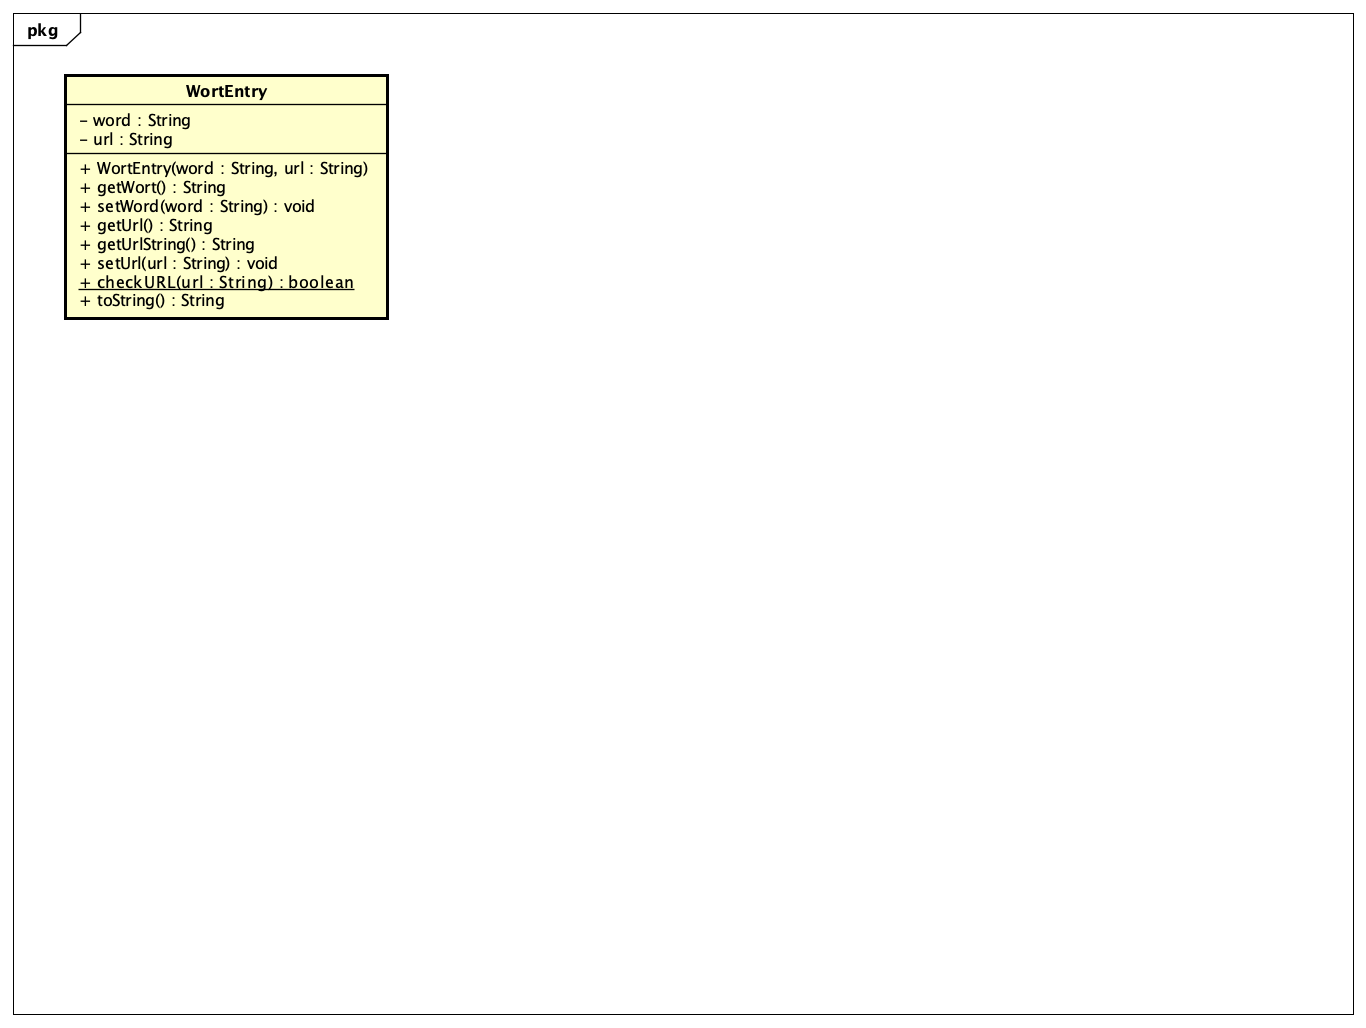
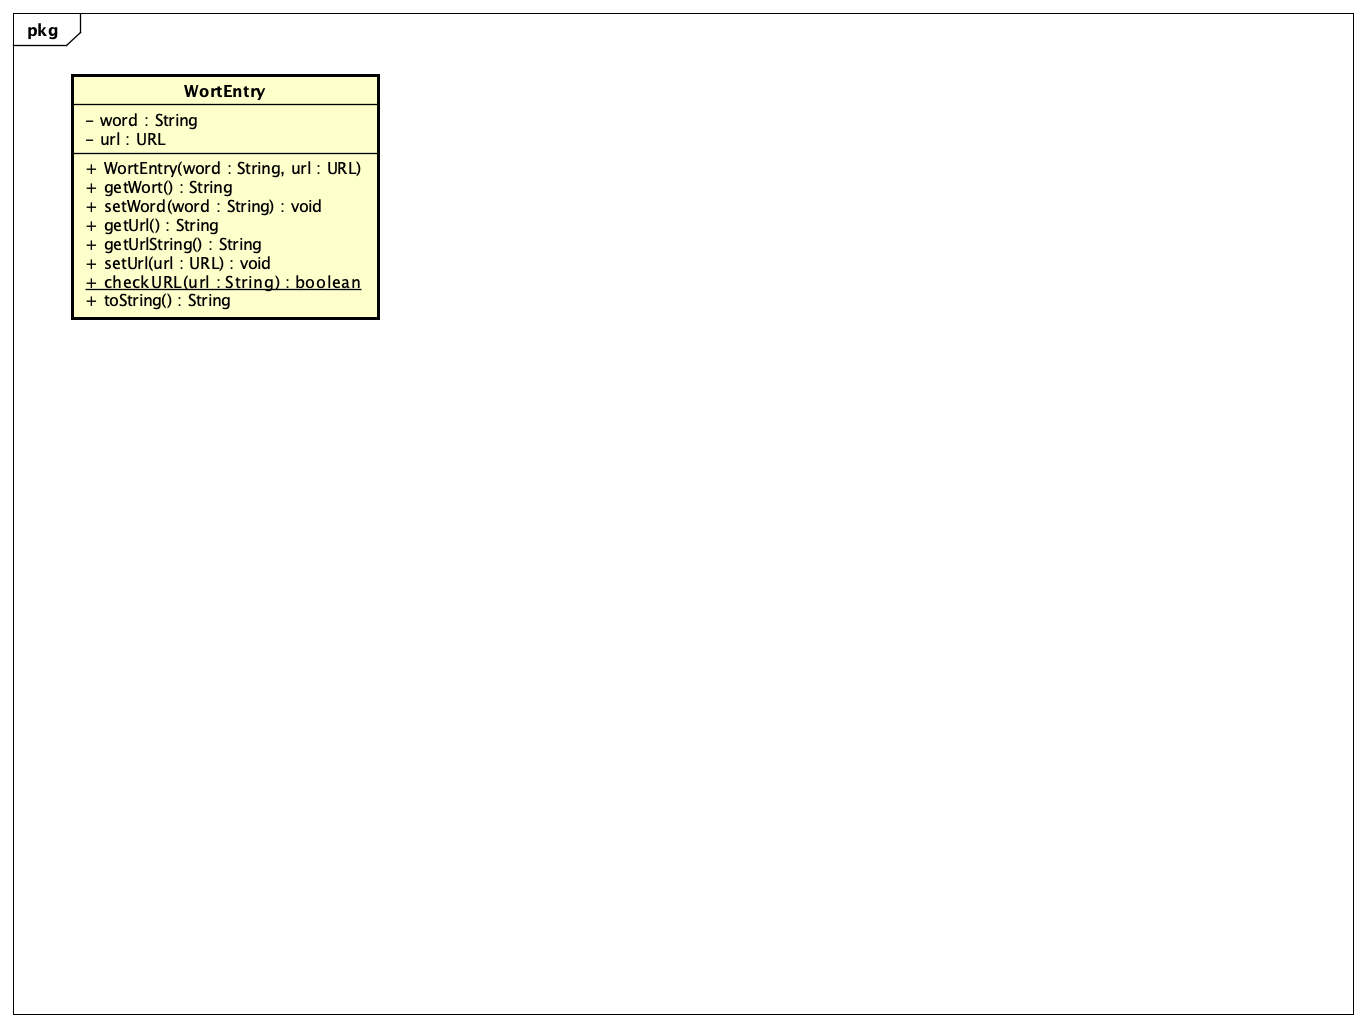
Finish model class
The `url` attribute is changed to an `URL` type as this allows easier handling. As the `URL` constructor requires some additional exception handling, it shall be the responsibility of the caller to ensure a correct url is passed.

Changed region(s): [[0.0307, 0.0623, 0.3075, 0.3113]]

diff --git a/src/main/java/org/tgm/asuender/WortEntry.java b/src/main/java/org/tgm/asuender/WortEntry.java
@@ -1,0 +1,113 @@
+package org.tgm.asuender;
+
+import com.fasterxml.jackson.annotation.JsonIgnore;
+
+import java.net.URL;
+
+/**
+ * Saves an entry consisting of a word and a corresponding URL.
+ * @author Andreas Sünder
+ * @version 01-06-2024
+ */
+public class WortEntry {
+    private String word;
+    URL url;
+
+    /**
+     * Initializes an empty word entry.
+     * @param word the word to be saved, must be at least 2 characters long
+     * @param url the URL to be saved, must not be null
+     */
+    public WortEntry(String word, URL url) {
+        if (word == null || word.trim().length() < 2) {
+            throw new IllegalArgumentException("Das Wort muss mind. 2 Buchstaben lang sein!");
+        }
+        if (url == null) throw new NullPointerException("Die URL darf kein Nullobjekt sein!");
+
+        this.word = word;
+        if (checkURL(url.toString())) {
+            this.url = url;
+        }  else {
+            throw new IllegalArgumentException("Die URL ist ungültig!");
+        }
+    }
+
+    /**
+     * Returns the saved word.
+     * @return the saved word
+     */
+    public String getWort() {
+        return word;
+    }
+
+    /**
+     * Sets the word to be saved. The word must be at least 2 characters long.
+     * @param word the word to be saved
+     */
+    public void setWord(String word) {
+        if (word == null || word.trim().length() < 2) {
+            throw new IllegalArgumentException("Das Wort muss mind. 2 Buchstaben lang sein!");
+        }
+
+        this.word = word;
+    }
+
+    /**
+     * Returns the saved URL.
+     * @return the saved URL
+     */
+    public URL getUrl() {
+        return url;
+    }
+
+    /**
+     * Returns the saved URL as a String.
+     * This method is ignored by Jackson for serialization.
+     * @return the saved URL as a String
+     */
+    @JsonIgnore
+    public String getUrlString() {
+        return url.toString();
+    }
+
+    /**
+     * Sets the URL to be saved. The URL must not be null.
+     * @param url the URL to be saved
+     */
+    public void setUrl(URL url) {
+        if (url == null) throw new NullPointerException("Die URL darf kein Nullobjekt sein!");
+
+        if (checkURL(url.toString())) {
+            this.url = url;
+        }  else {
+            throw new IllegalArgumentException("Die URL ist ungültig!");
+        }
+    }
+
+    /**
+     * Checks a provided URL against the following criteria:
+     *  - 'http://' or 'https://' appears at the beginning
+     *  - after the protocol, there should be at least 1 letter ...
+     *  - ... followed by a period ...
+     *  - ... and again at least one letter.
+     * This uses a custom regex pattern.
+     * Null objects are not accepted.
+     * @param url The URL to be checked
+     * @return true if the URL meets the above criteria, otherwise false
+     */
+    public static boolean checkURL(String url) {
+        if (url == null) throw new NullPointerException("Die URL darf kein Nullobjekt sein!");
+
+        return url.matches("^https?://[a-zA-Z]+\\.[a-zA-Z]+");
+    }
+
+    /**
+     * Returns the String representation of the current object in the format
+     * "[word];[url]".
+     * @return String representation
+     */
+    @Override
+    public String toString() {
+        return String.format("%s;%s", this.word, this.url);
+    }
+}
